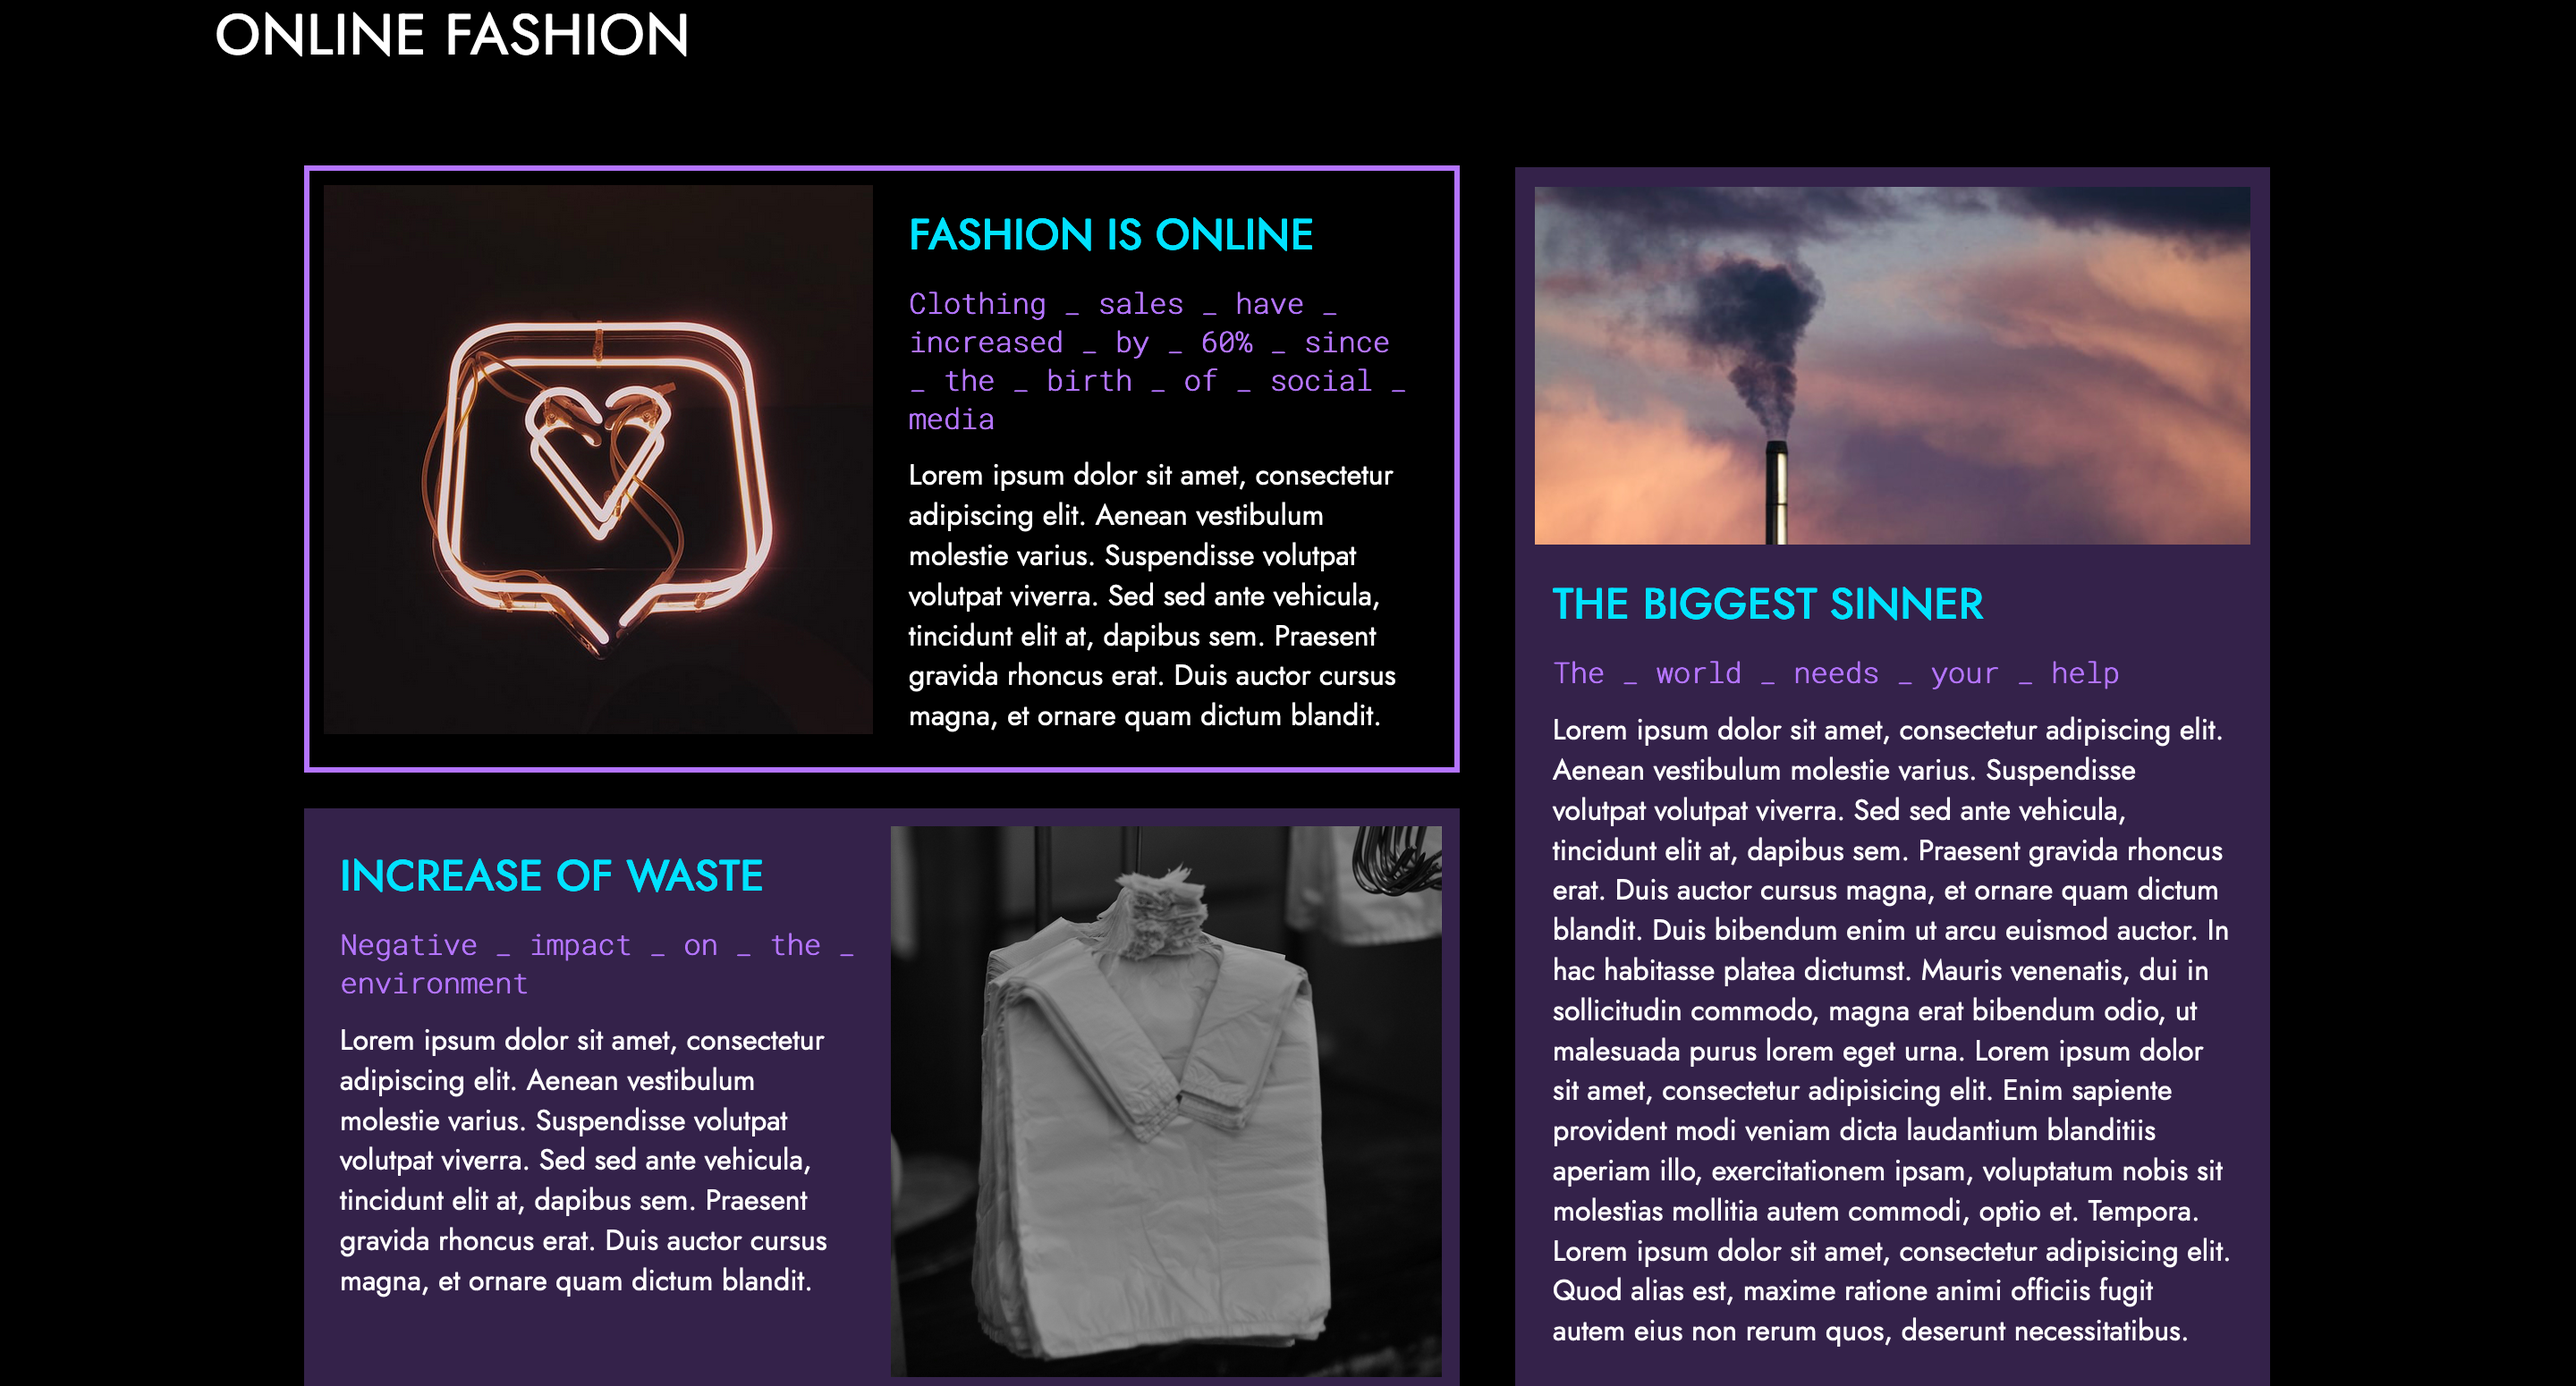
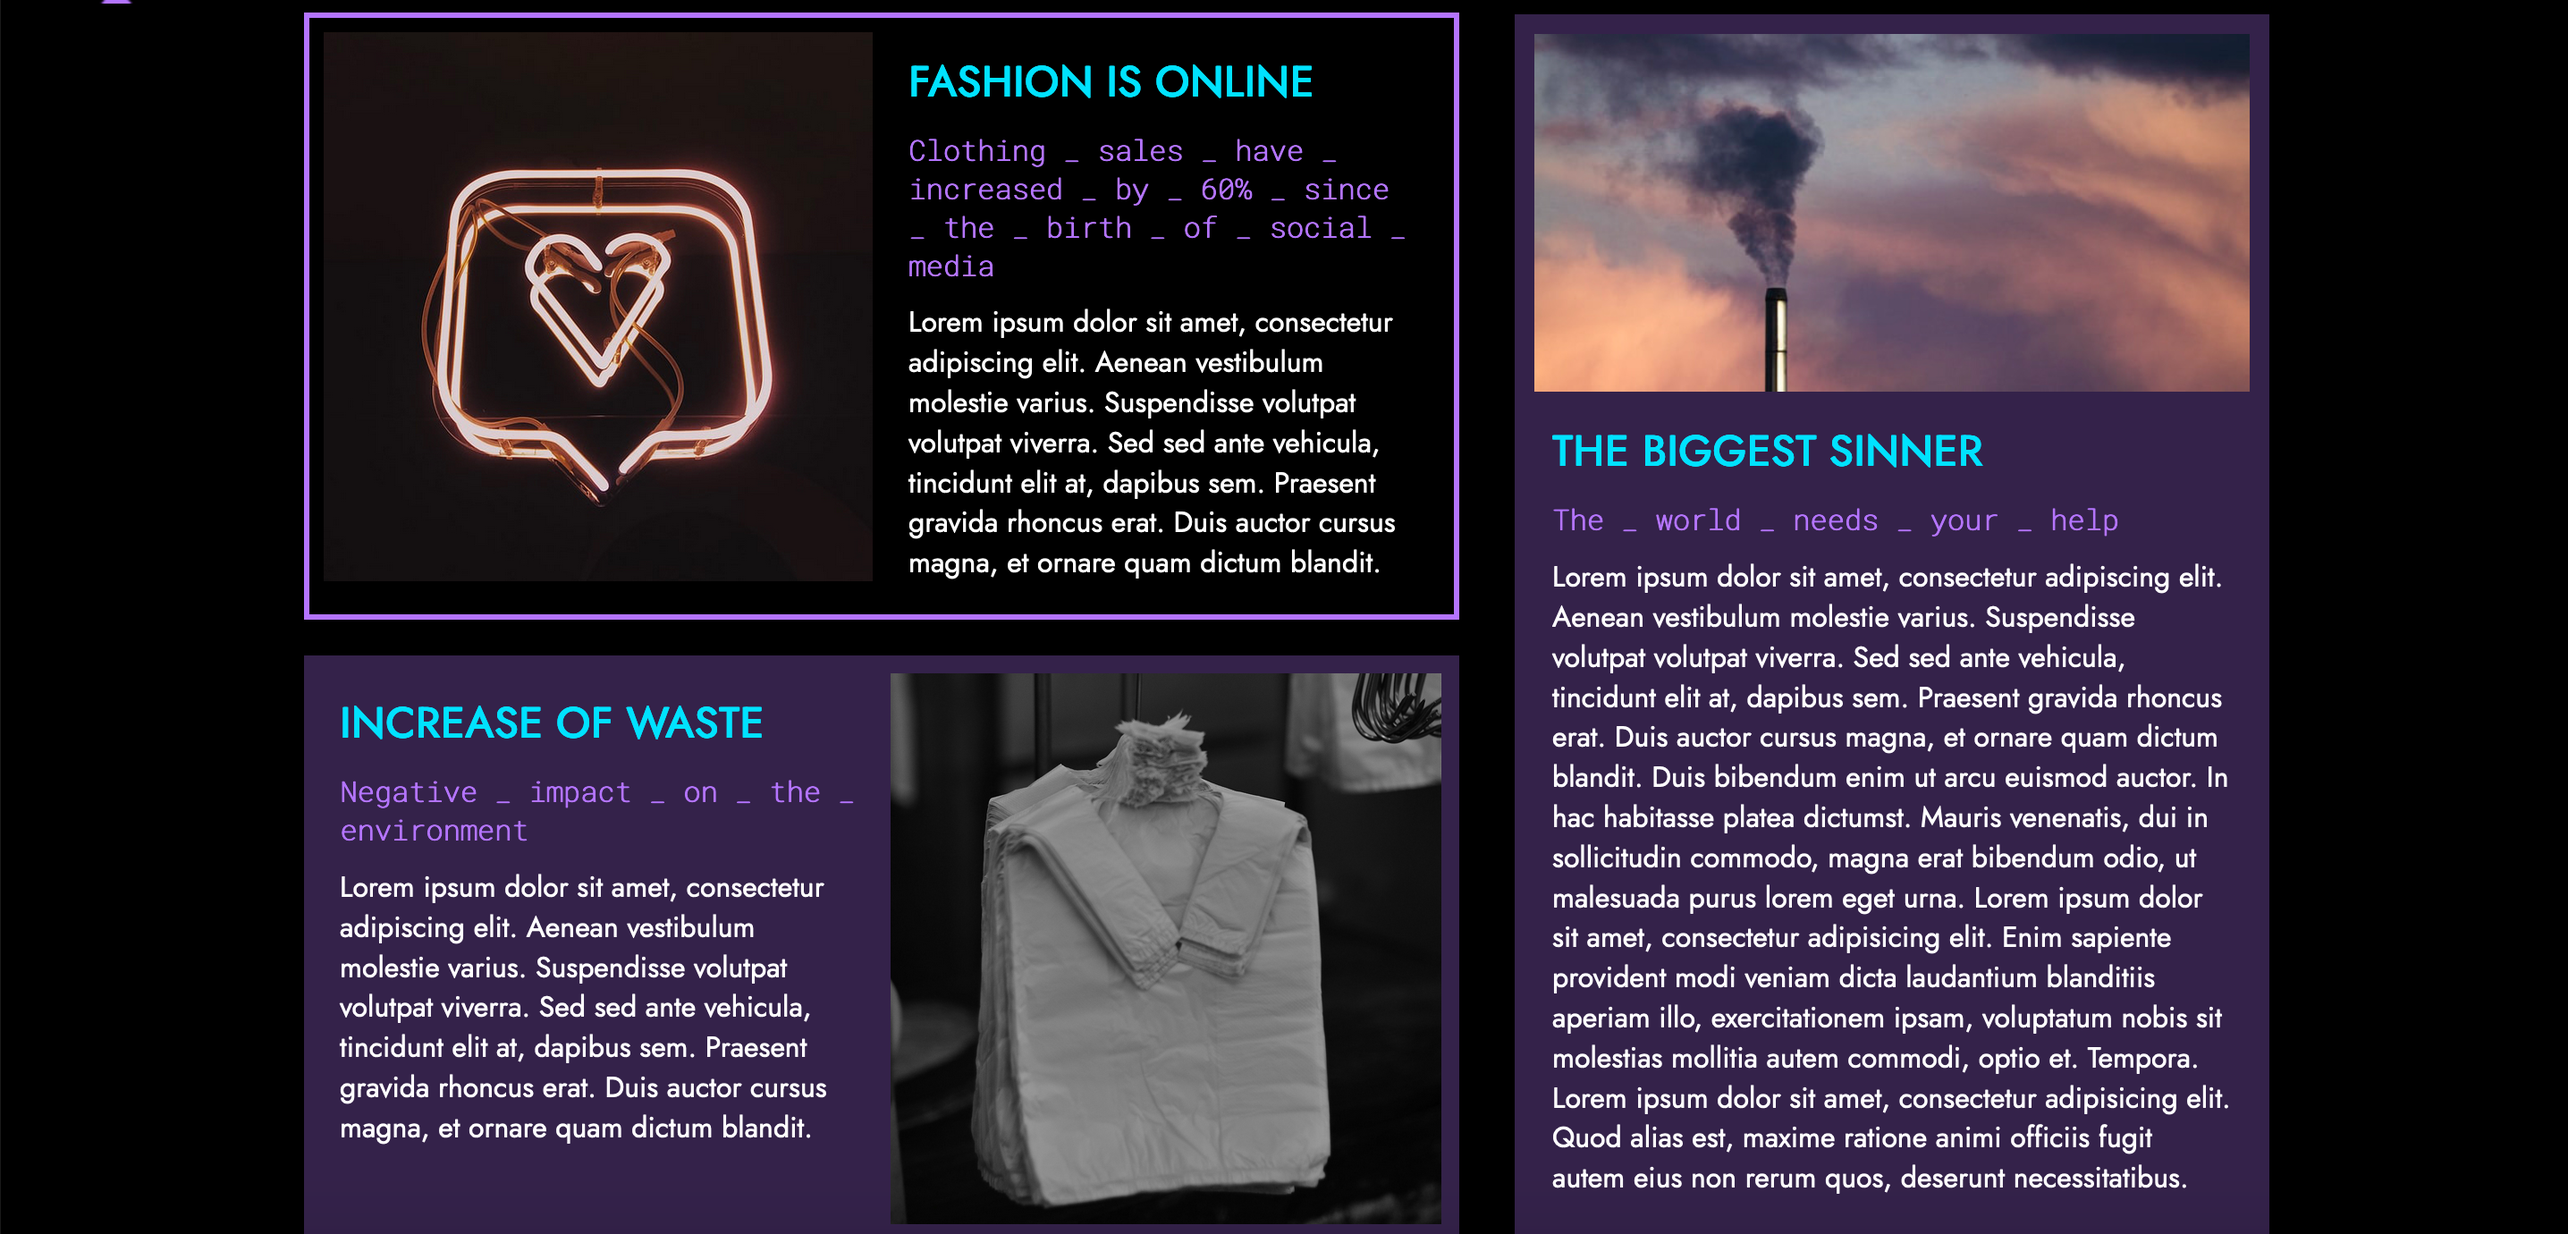
grundlæggende web

diff --git a/web.html b/web.html
@@ -1,0 +1,77 @@
+<!DOCTYPE html>
+<html lang="da">
+
+<head>
+    <meta charset="utf-8">
+    <meta name="viewport" content="width=device-width, initial-scale=1.0">
+    <meta charset="utf-8">
+    <meta name="viewport" content="width=device-width, initial-scale=1.0">
+    <link rel="preconnect" href="https://fonts.gstatic.com">
+    <link href="https://fonts.googleapis.com/css2?family=Jost:wght@200&display=swap" rel="stylesheet">
+    <link rel="preconnect" href="https://fonts.gstatic.com">
+    <link href="https://fonts.googleapis.com/css2?family=Poppins:wght@600&display=swap" rel="stylesheet">
+    <meta name="robots" content="noindex">
+    <title>WEB</title>
+    <link rel="stylesheet" href="main.css">
+    <link rel="stylesheet" href="web.css">
+</head>
+
+<body>
+    <header>
+        <nav>
+            <a href="index.html">FORSIDE</a>
+            <a href="web.html">WEB</a>
+            <a href="ux.html">UX</a>
+            <a href="animation.html">ANIMATION</a>
+            <a href="indhold.html">CONTENT</a>
+            <a href="cv.html">OM MIG</a>
+        </nav>
+    </header>
+
+    <main>
+        <section id="first_section">
+            <h2>GRUNDLÆGGENDE HTML</h2>
+            <div class="section_wrapper">
+                <div class="col1">
+                    <h3>02.04.02 responsive_site_v2</h3>
+                    <p>I tema 2 har vi lært at..</p>
+                </div>
+                <div class="col2">
+                    <img src="web_images/splash.png" alt="splash">
+                </div>
+            </div>
+        </section>
+
+        <section id="second_section">
+            <div class="section_wrapper">
+                <div class="col1">
+                    <img src="web_images/menu_mobile.png" alt="mobilmenu">
+                </div>
+                <div class="col2">
+                    <img src="web_images/section_web1.png" alt="websection">
+                </div>
+            </div>
+        </section>
+
+        <section id="third_section">
+            <div class="section_wrapper">
+                <div class="col1">
+                    <img src="web_images/section_mobile4.png" alt="mobilsection">
+                </div>
+                <div class="col2">
+                    <img src="web_images/styletile.png" alt="styletile">
+                </div>
+                <div class="col3">
+                    <img src="web_images/styletile2.png" alt="styletile2">
+                </div>
+            </div>
+        </section>
+
+        <section id="fourth_section">
+            <img src="web_images/galleri.png" alt="galleri">
+        </section>
+
+    </main>
+</body>
+
+</html>

diff --git a/index.html b/index.html
@@ -7,21 +7,17 @@
     <link rel="preconnect" href="https://fonts.gstatic.com">
     <link href="https://fonts.googleapis.com/css2?family=Jost:wght@200&display=swap" rel="stylesheet">
     <link rel="preconnect" href="https://fonts.gstatic.com">
-    <link href="https://fonts.googleapis.com/css2?family=Poppins:wght@200&display=swap" rel="stylesheet">
+    <link href="https://fonts.googleapis.com/css2?family=Poppins:wght@600&display=swap" rel="stylesheet">
     <meta name="robots" content="noindex">
-    <link rel="preconnect" href="https://fonts.gstatic.com">
-    <link href="https://fonts.googleapis.com/css2?family=Playfair+Display:wght@600&display=swap" rel="stylesheet">
     <title>Forside</title>
     <link rel="stylesheet" href="main.css">
     <link rel="stylesheet" href="forside.css">
 </head>
 
 <body>
-    <div id="overskrift">
-        <h1>Monique Marie <br> Funch</h1>
-    </div>
     <header>
         <nav>
+            <a href="index.html">FORSIDE</a>
             <a href="web.html">WEB</a>
             <a href="ux.html">UX</a>
             <a href="animation.html">ANIMATION</a>
@@ -29,16 +25,14 @@
             <a href="cv.html">OM MIG</a>
         </nav>
     </header>
+
     <main>
-        <section id="forsidebillede">
-            <div class="forsidebillede">
-                <img src="forside.jpg" alt="forsidebillede">
-            </div>
-        </section>
+
+
     </main>
 </body>
-
 <footer>
 </footer>
+
 
 </html>

diff --git a/ux.html b/ux.html
@@ -1,0 +1,36 @@
+<!DOCTYPE html>
+<html lang="da">
+
+<head>
+    <meta charset="utf-8">
+    <meta name="viewport" content="width=device-width, initial-scale=1.0">
+    <meta charset="utf-8">
+    <meta name="viewport" content="width=device-width, initial-scale=1.0">
+    <link rel="preconnect" href="https://fonts.gstatic.com">
+    <link href="https://fonts.googleapis.com/css2?family=Jost:wght@200&display=swap" rel="stylesheet">
+    <link rel="preconnect" href="https://fonts.gstatic.com">
+    <link href="https://fonts.googleapis.com/css2?family=Poppins:wght@600&display=swap" rel="stylesheet">
+    <meta name="robots" content="noindex">
+    <title>UX</title>
+    <link rel="stylesheet" href="main.css">
+    <link rel="stylesheet" href="ux.css">
+</head>
+
+<body>
+    <header>
+        <nav>
+            <a href="index.html">FORSIDE</a>
+            <a href="web.html">WEB</a>
+            <a href="ux.html">UX</a>
+            <a href="animation.html">ANIMATION</a>
+            <a href="indhold.html">CONTENT</a>
+            <a href="cv.html">OM MIG</a>
+        </nav>
+    </header>
+
+    <main>
+
+    </main>
+</body>
+
+</html>

diff --git a/main.css b/main.css
@@ -14,7 +14,25 @@ body {
 
 main {
     max-width: 1080px;
-    margin: 4rem auto;
+    margin: 1.5rem auto;
+}
+
+h2 {
+    font-family: 'Poppins', sans-serif;
+}
+
+h3 {
+    font-family: 'Poppins', sans-serif;
+}
+
+p {
+    font-family: 'Jost', sans-serif;
+}
+
+section {
+    max-width: 1280px;
+    margin: 0 auto;
+    padding-top: 20px;
 }
 
 nav {
@@ -27,7 +45,7 @@ nav {
     flex-direction: column;
     justify-content: space-around;
     text-align: left;
-    height: 550px;
+    /*    height: 550px;*/
 }
 
 nav a {
@@ -38,4 +56,14 @@ nav a {
 header {
     position: relative;
     height: 0;
+    padding-bottom: 4vh;
+    padding-top: 3vh;
 }
+
+@media only screen and (min-width: 600px) {
+    nav {
+        flex-direction: row;
+        font-size: 1rem;
+        position: absolute;
+        width: 100%;
+    }

diff --git a/web.css b/web.css
@@ -1,0 +1,40 @@
+h2 {
+    text-align: center;
+}
+
+@media only screen and (min-width: 600px) {
+    #first_section .section_wrapper {
+        display: grid;
+        grid-template-columns: 1fr 2fr;
+        grid-gap: 20px;
+    }
+
+    #second_section .section_wrapper {
+        display: grid;
+        grid-template-columns: 1fr 2fr;
+        grid-gap: 20px;
+    }
+
+    #third_section .section_wrapper {
+        display: grid;
+        grid-template-columns: 1fr 1fr 1fr;
+        grid-template-rows: 1fr 1fr;
+        grid-gap: 20px;
+    }
+
+    #third_section .col1 {
+        grid-column: 1/2;
+        grid-row: 1/3;
+    }
+
+    #third_section .col2 {
+        grid-column: 2/4;
+        grid-row: 1/2;
+    }
+
+    #third_section .col3 {
+        grid-column: 2/4;
+        grid-row: 2/3;
+    }
+
+}

diff --git a/forside.css b/forside.css
@@ -1,14 +1,7 @@
-#overskrift {
+/*
+.overskrift {
     font-family: 'Playfair Display', serif;
     font-size: 1.4rem;
     padding-left: 0.5rem;
 }
-
-#forsidebillede {
-    padding-left: 120px;
-    padding-top: 20px;
-}
-
-.forsidebillede {
-    width: 330px;
-}
+*/
